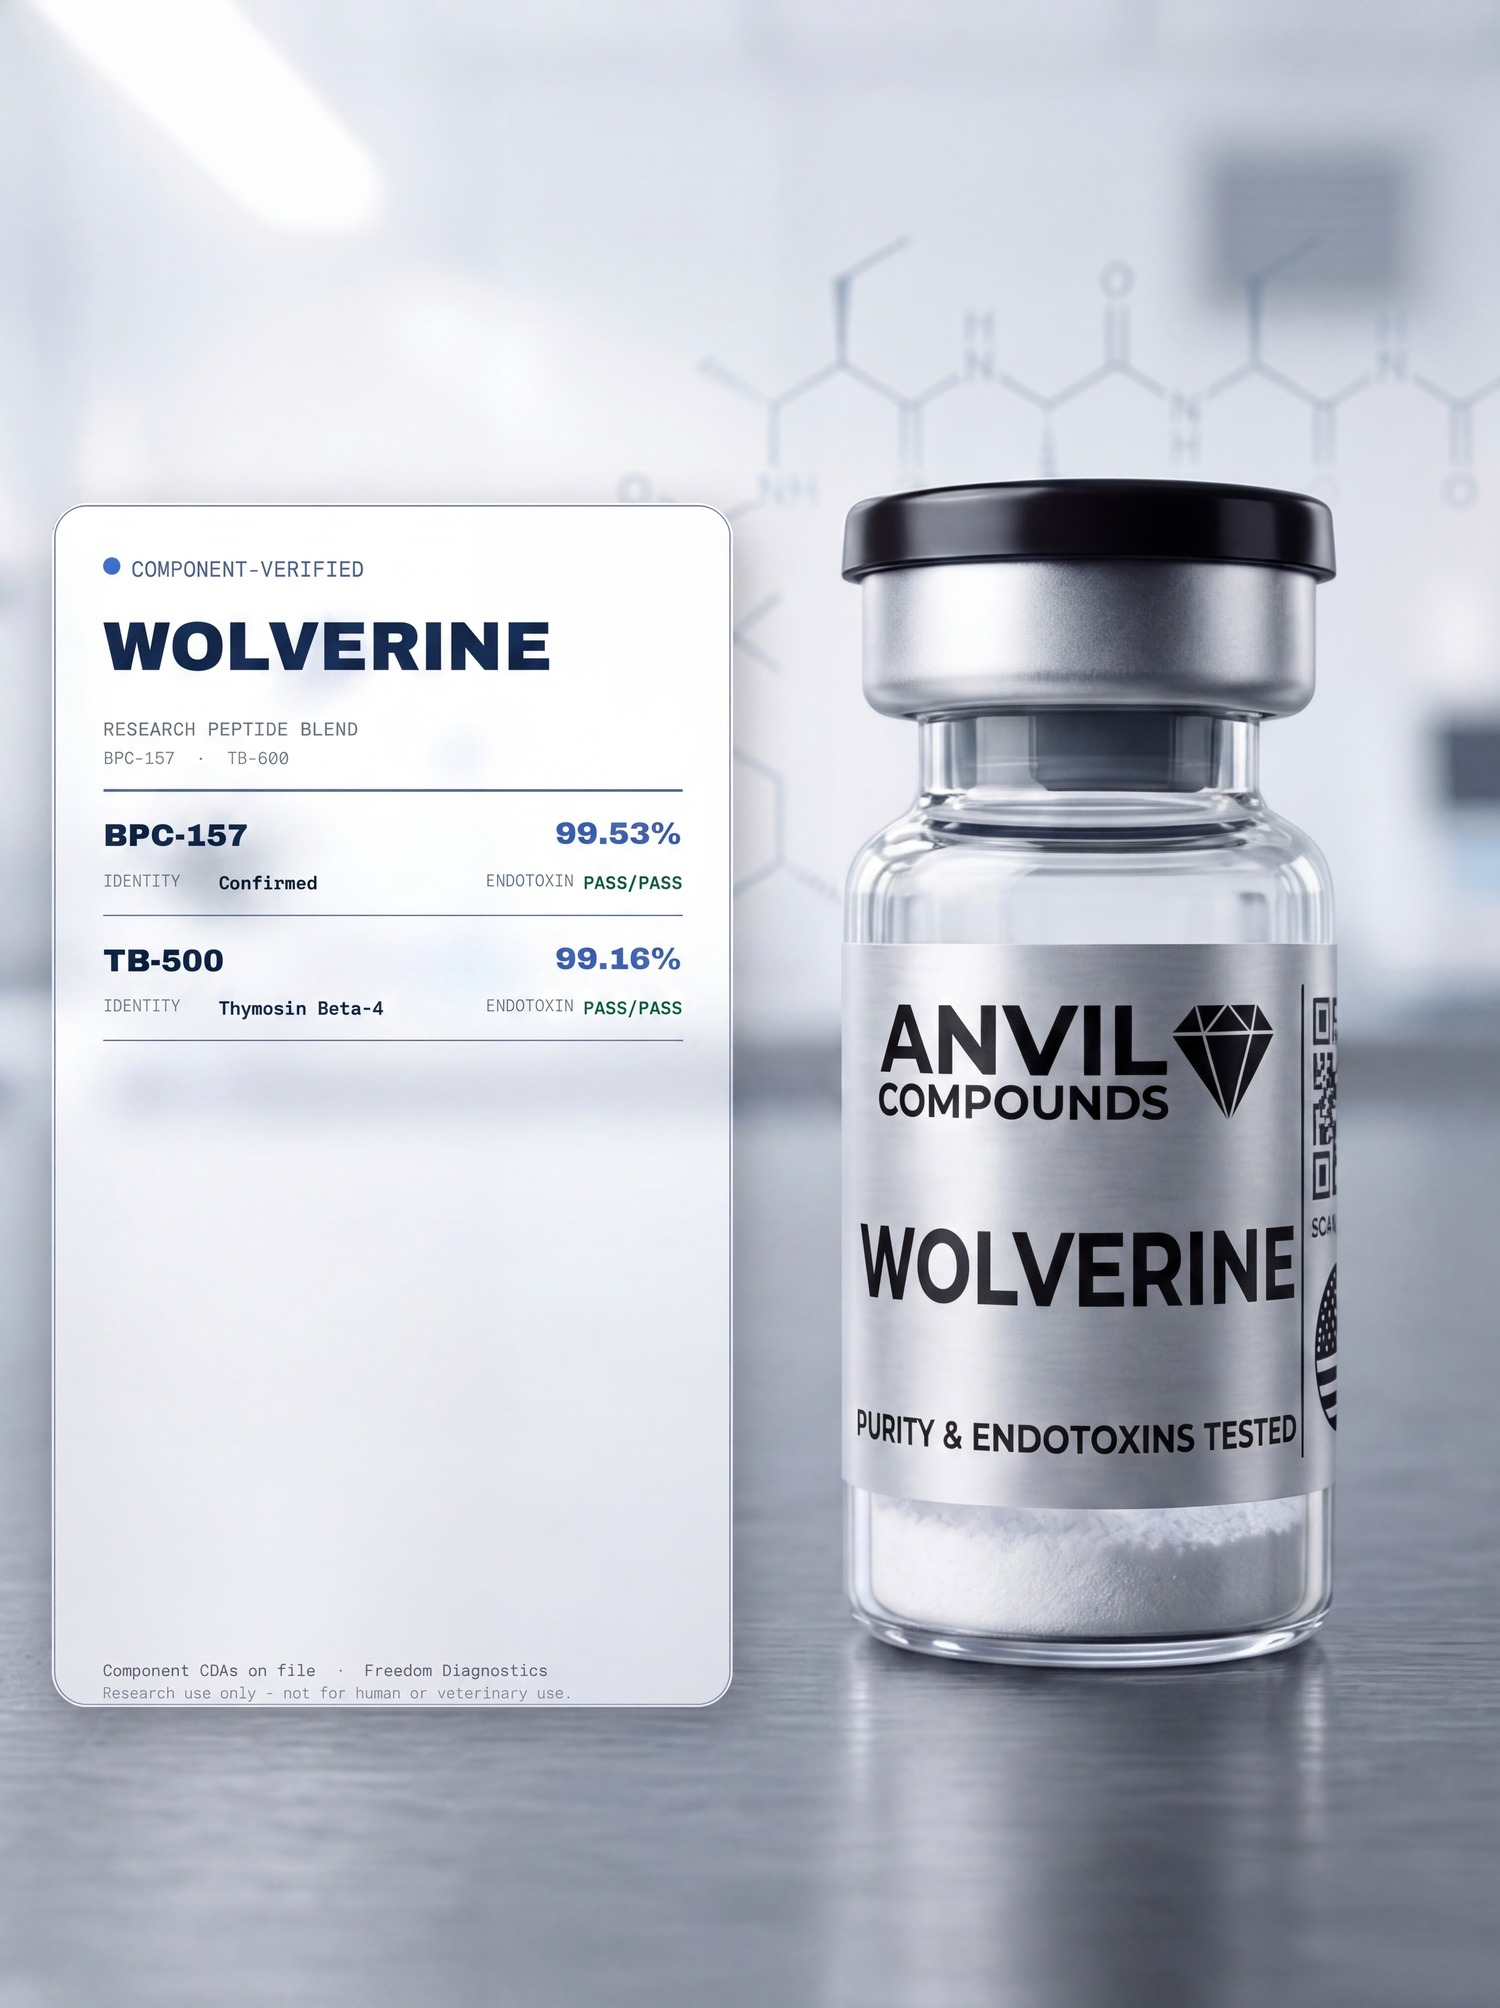
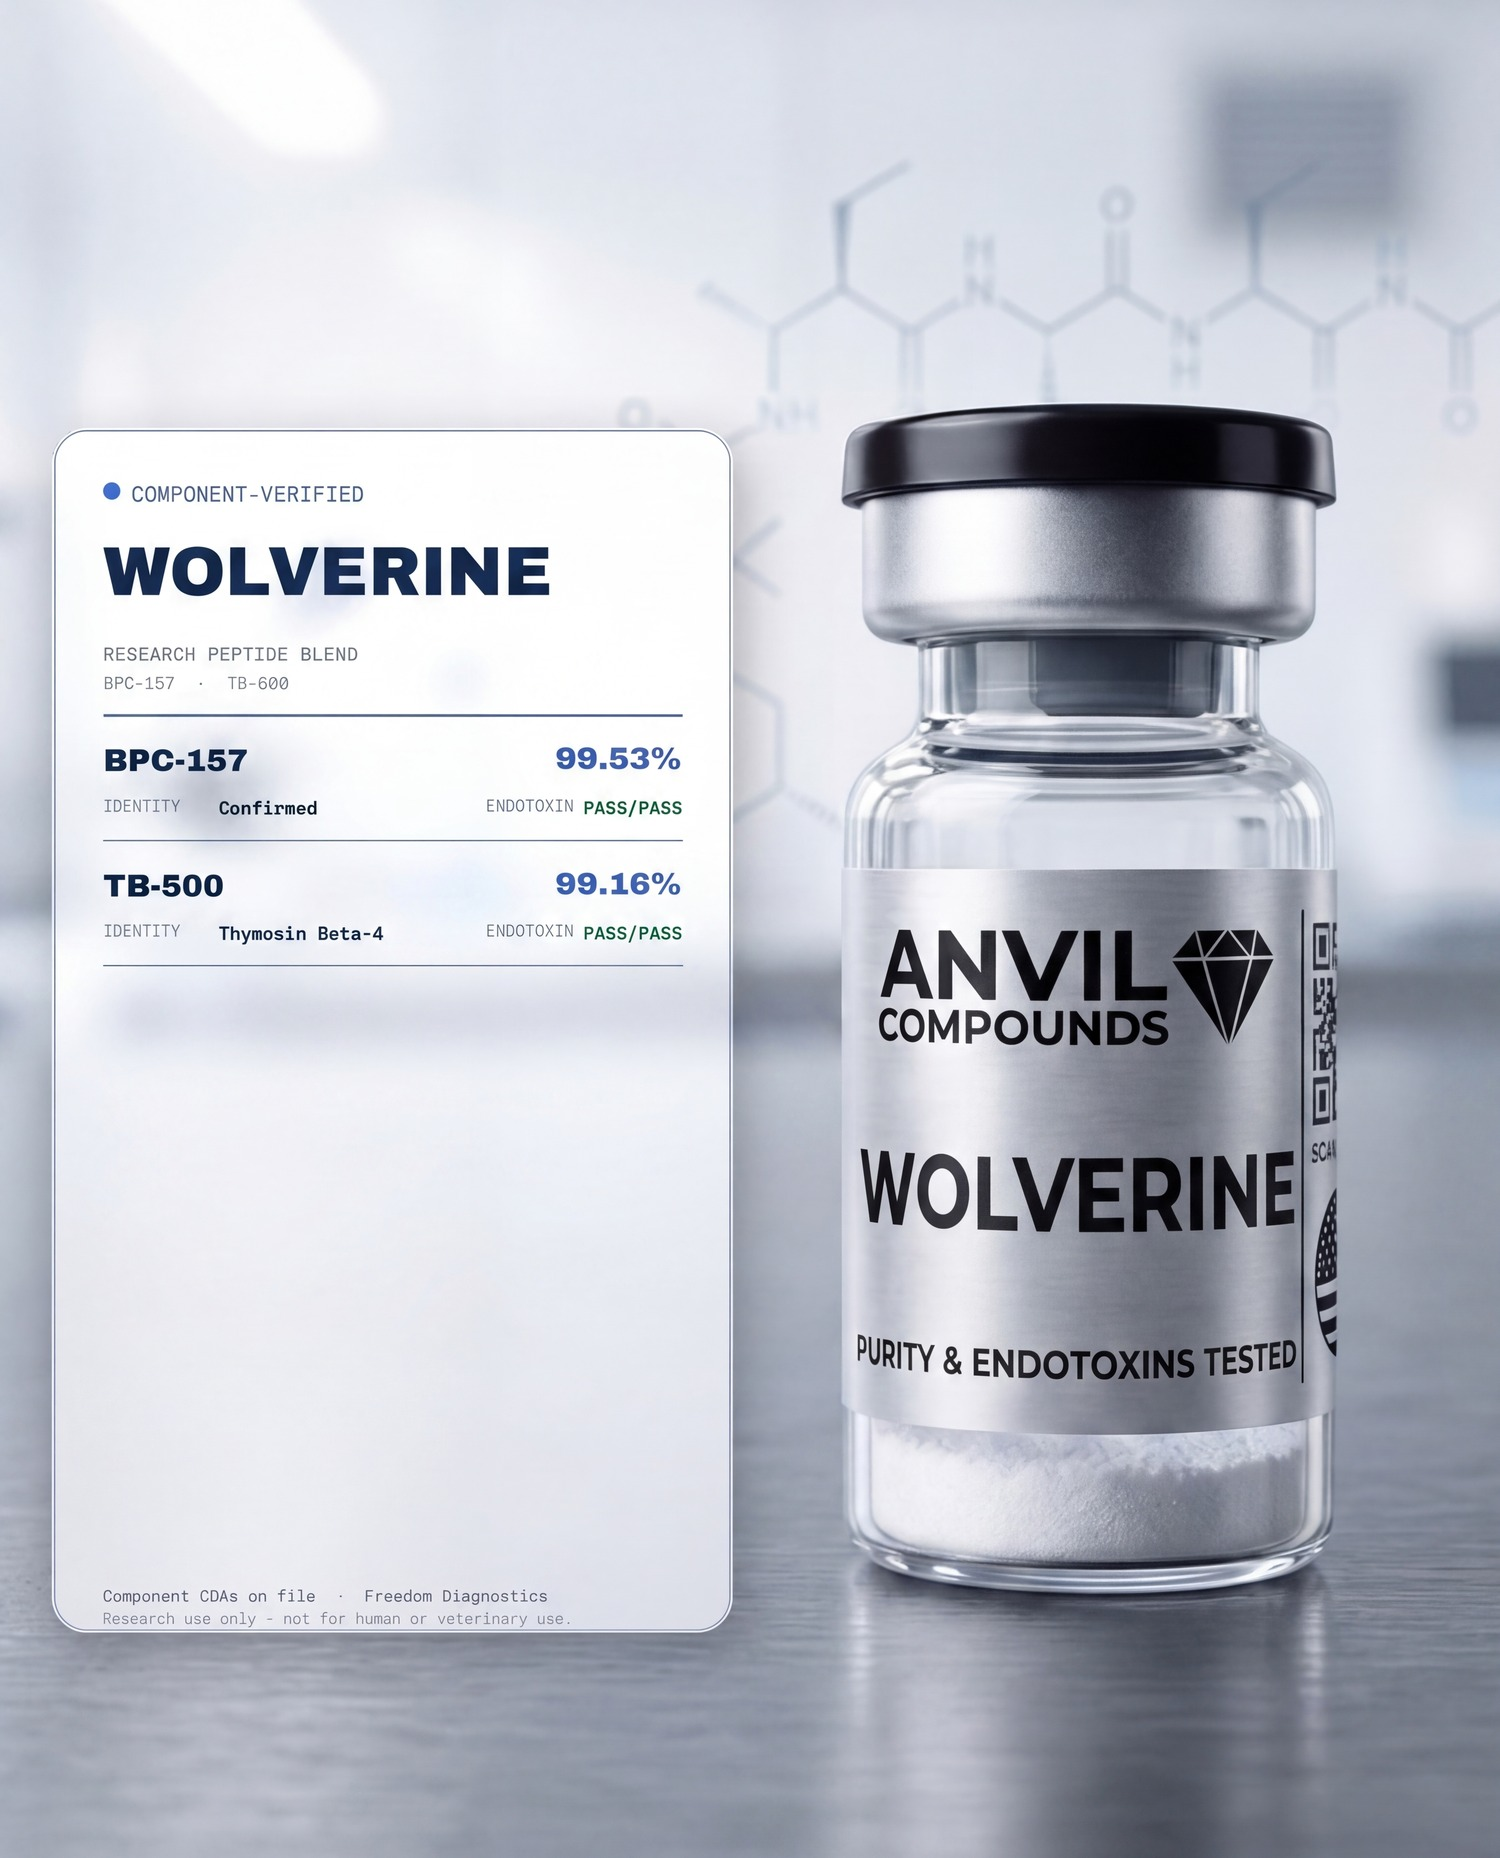
Match Wolverine/KLOW/GLOW photo aspect ratio to catalog standard, shrink product-page image and hero section ~20%
- Re-crop Wolverine, KLOW, and GLOW photos to the same ~0.81 aspect
  ratio as the rest of the catalog (was 0.75, causing empty side
  bars in the catalog card frame). Cropped only background margin
  above/below — vial and COA card content untouched.
- Desktop product-page image now renders at 80% width, centered,
  aspect ratio preserved (no cropping, just smaller)
- Homepage hero section scaled down ~20% across the board: section
  height, headline size, vial image (mobile + desktop), spacing

diff --git a/components/HeroSection.tsx b/components/HeroSection.tsx
@@ -24,7 +24,7 @@ export default function HeroSection() {
     <section
       ref={ref}
       className="relative flex items-center overflow-hidden"
-      style={{ minHeight: "clamp(430px, 58vh, 660px)" }}
+      style={{ minHeight: "clamp(344px, 46vh, 528px)" }}
     >
       {/* Light background */}
       <Image
@@ -40,32 +40,32 @@ export default function HeroSection() {
 
       {/* Content */}
       <motion.div style={{ y, opacity }} className="relative z-10 w-full">
-        <div className="max-w-7xl mx-auto px-2 sm:px-6 md:px-10 pt-12 pb-12 md:pt-16 md:pb-16">
-          <div className="grid lg:grid-cols-[1.15fr_0.85fr] gap-4 lg:gap-8 items-center">
+        <div className="max-w-7xl mx-auto px-2 sm:px-6 md:px-10 pt-10 pb-10 md:pt-12 md:pb-12">
+          <div className="grid lg:grid-cols-[1.15fr_0.85fr] gap-3 lg:gap-6 items-center">
           <motion.div
             variants={container}
             initial="hidden"
             animate="show"
-            className="flex flex-col items-center text-center lg:items-start lg:text-left px-2 py-3 md:py-5"
+            className="flex flex-col items-center text-center lg:items-start lg:text-left px-2 py-2 md:py-4"
             style={{ background: "radial-gradient(ellipse 70% 85% at 50% 48%, rgba(255,255,255,0.62) 0%, rgba(255,255,255,0.18) 60%, transparent 100%)" }}
           >
 
             {/* Vial graphic — mobile/tablet only; sits above the headline. Desktop shows
                 the vial in the side column instead (see below) and keeps this hidden. */}
-            <motion.div variants={item} className="lg:hidden relative w-[320px] max-w-[82vw] aspect-square mb-2">
+            <motion.div variants={item} className="lg:hidden relative w-[256px] max-w-[66vw] aspect-square mb-2">
               <Image
                 src="/images/homepage/hero-vial-callouts.png"
                 alt="Anvil Compounds BPC-157 research vial with 99%+ purity, lot-verified, and USA-based facility callouts"
                 fill
                 className="object-contain"
-                sizes="320px"
+                sizes="256px"
                 priority
               />
             </motion.div>
 
             {/* Badge — hidden on mobile to make room for the vial graphic above the text */}
-            <motion.div variants={item} className="hidden md:flex items-center justify-center lg:justify-start mb-3">
-              <div className="flex items-center gap-2 px-3 py-1.5 rounded-full border border-mock-line bg-white/70 backdrop-blur-sm">
+            <motion.div variants={item} className="hidden md:flex items-center justify-center lg:justify-start mb-2">
+              <div className="flex items-center gap-2 px-2.5 py-1 rounded-full border border-mock-line bg-white/70 backdrop-blur-sm">
                 <span className="w-1.5 h-1.5 rounded-full bg-mock-cobalt inline-block flex-shrink-0" />
                 <span className="text-[10px] md:text-xs font-mono text-mock-cobaltInk tracking-widest uppercase">
                   Research Grade · 99%+ Purity<span className="hidden sm:inline"> · USA-Based</span>
@@ -76,8 +76,8 @@ export default function HeroSection() {
             {/* Headline */}
             <motion.h1
               variants={item}
-              className="font-heading font-700 leading-[0.95] mb-3 max-w-3xl"
-              style={{ fontSize: "clamp(1.98rem, 4.5vw, 4rem)", textShadow: "0 1px 12px rgba(255,255,255,0.95), 0 0px 2px rgba(255,255,255,0.7)" }}
+              className="font-heading font-700 leading-[0.95] mb-2 max-w-3xl"
+              style={{ fontSize: "clamp(1.584rem, 3.6vw, 3.2rem)", textShadow: "0 1px 12px rgba(255,255,255,0.95), 0 0px 2px rgba(255,255,255,0.7)" }}
             >
               <span className="block text-mock-ink">Research Peptides with</span>
               <span className="block">
@@ -90,41 +90,41 @@ export default function HeroSection() {
             {/* Subheadline */}
             <motion.p
               variants={item}
-              className="font-body text-mock-sub text-sm md:text-base leading-relaxed mb-1 max-w-sm md:max-w-md"
+              className="font-body text-mock-sub text-xs md:text-sm leading-relaxed mb-1 max-w-sm md:max-w-md"
             >
               &gt;99%+ purity threshold. Independently Verified + Scannable COAs per vial.
             </motion.p>
             <motion.p
               variants={item}
-              className="font-body text-mock-sub text-xs md:text-sm leading-relaxed mb-4 max-w-sm md:max-w-md"
+              className="font-body text-mock-sub text-xs md:text-sm leading-relaxed mb-3 max-w-sm md:max-w-md"
             >
               Southern California USA Based Facility
             </motion.p>
 
             {/* CTAs — stacked on mobile, row on sm+ */}
-            <motion.div variants={item} className="flex flex-col sm:flex-row flex-wrap justify-center lg:justify-start gap-2.5 mb-3 w-full sm:w-auto">
+            <motion.div variants={item} className="flex flex-col sm:flex-row flex-wrap justify-center lg:justify-start gap-2 mb-2 w-full sm:w-auto">
               <a
                 href="/catalog?catalog=full"
-                className="px-6 py-2.5 bg-mock-cobalt hover:bg-mock-cobaltInk text-white font-display font-700 text-sm tracking-wide rounded-md transition-all duration-300 hover:shadow-lg hover:shadow-mock-cobalt/30 text-center"
+                className="px-5 py-2 bg-mock-cobalt hover:bg-mock-cobaltInk text-white font-display font-700 text-sm tracking-wide rounded-md transition-all duration-300 hover:shadow-lg hover:shadow-mock-cobalt/30 text-center"
               >
                 Explore Catalog
               </a>
               <a
                 href="/coas"
-                className="px-6 py-2.5 border border-mock-line hover:border-mock-cobalt text-mock-cobaltInk hover:text-mock-cobalt font-display font-600 text-sm tracking-wide rounded-md transition-all duration-300 bg-white/60 hover:bg-white/90 text-center"
+                className="px-5 py-2 border border-mock-line hover:border-mock-cobalt text-mock-cobaltInk hover:text-mock-cobalt font-display font-600 text-sm tracking-wide rounded-md transition-all duration-300 bg-white/60 hover:bg-white/90 text-center"
               >
                 View COAs →
               </a>
               <a
                 href="#testing"
-                className="px-6 py-2.5 border border-mock-line hover:border-mock-sub text-mock-sub hover:text-mock-ink font-display font-600 text-sm tracking-wide rounded-md transition-all duration-300 bg-white/60 hover:bg-white/90 text-center"
+                className="px-5 py-2 border border-mock-line hover:border-mock-sub text-mock-sub hover:text-mock-ink font-display font-600 text-sm tracking-wide rounded-md transition-all duration-300 bg-white/60 hover:bg-white/90 text-center"
               >
                 Our Testing Process →
               </a>
             </motion.div>
 
             {/* Shipping banner — desktop only now; hidden on mobile to make room for the larger vial graphic above */}
-            <motion.div variants={item} className="hidden lg:block mb-3 w-full max-w-sm md:max-w-md">
+            <motion.div variants={item} className="hidden lg:block mb-2 w-full max-w-sm md:max-w-md">
               <ShippingBanner theme="light" />
             </motion.div>
 
@@ -137,13 +137,13 @@ export default function HeroSection() {
 
           {/* Vial graphic — desktop side column, proportional to the text block, never overlapping it */}
           <div className="hidden lg:flex items-center justify-center">
-            <div className="relative w-full max-w-[528px] aspect-square">
+            <div className="relative w-full max-w-[422px] aspect-square">
               <Image
                 src="/images/homepage/hero-vial-callouts.png"
                 alt="Anvil Compounds BPC-157 research vial with 99%+ purity, lot-verified, and USA-based facility callouts"
                 fill
                 className="object-contain"
-                sizes="528px"
+                sizes="422px"
                 priority
               />
             </div>

diff --git a/components/ProductPageTemplate.tsx b/components/ProductPageTemplate.tsx
@@ -277,12 +277,18 @@ export default function ProductPageTemplate({
 
             {/* Left — product image + shipping banner + SDS preview */}
             <div className="flex flex-col gap-5">
-              <ProductImageGallery
-                productImage={product.image}
-                productName={product.name}
-                coaImage={product.documentationImage}
-                variant="bleed"
-              />
+              {/* Image wrapper sized to 80% and centered — shrinks the framed
+                  photo without cropping anything (aspect ratio is preserved,
+                  it just scales down); shipping banner/SDS button below stay
+                  full column width. */}
+              <div className="w-[80%] mx-auto">
+                <ProductImageGallery
+                  productImage={product.image}
+                  productName={product.name}
+                  coaImage={product.documentationImage}
+                  variant="bleed"
+                />
+              </div>
               <ShippingBanner theme="light" />
               <SdsPreviewButton productName={product.name} fileUrl={product.sdsFile} />
             </div>
